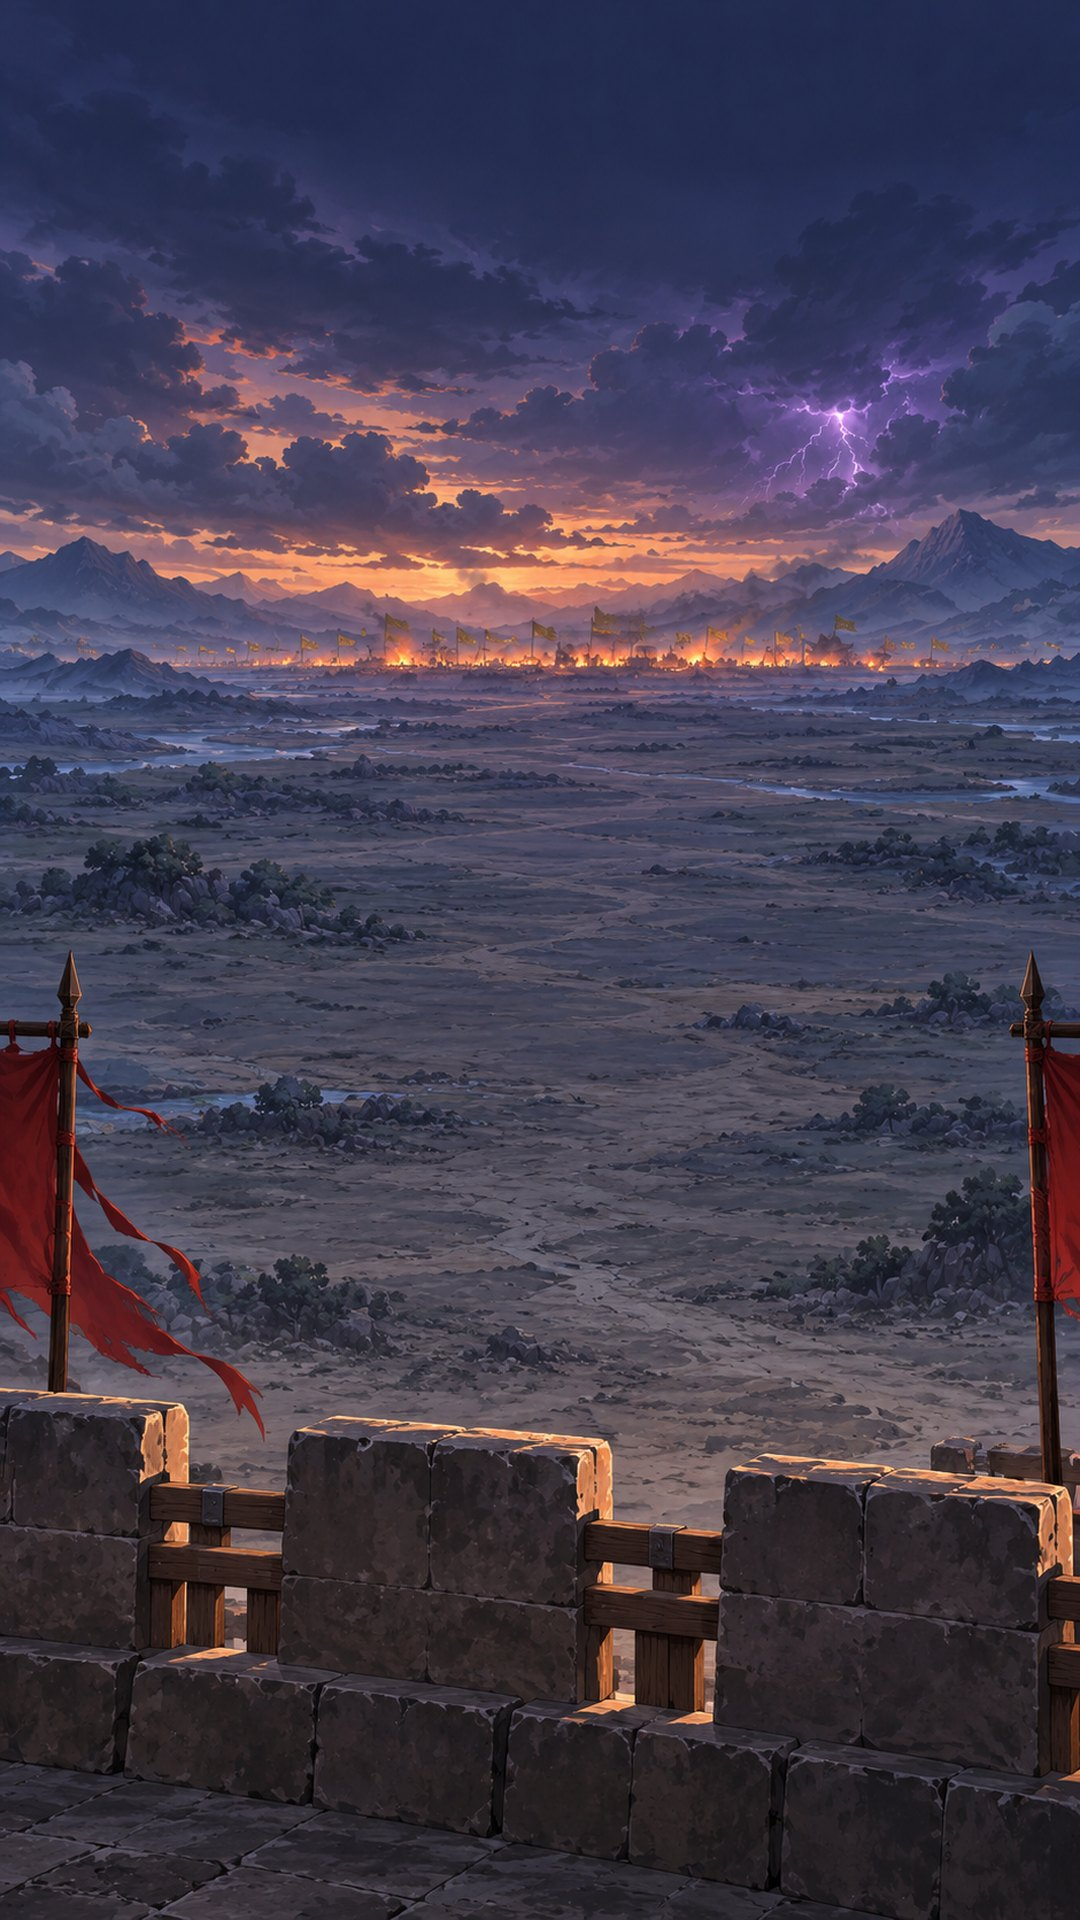
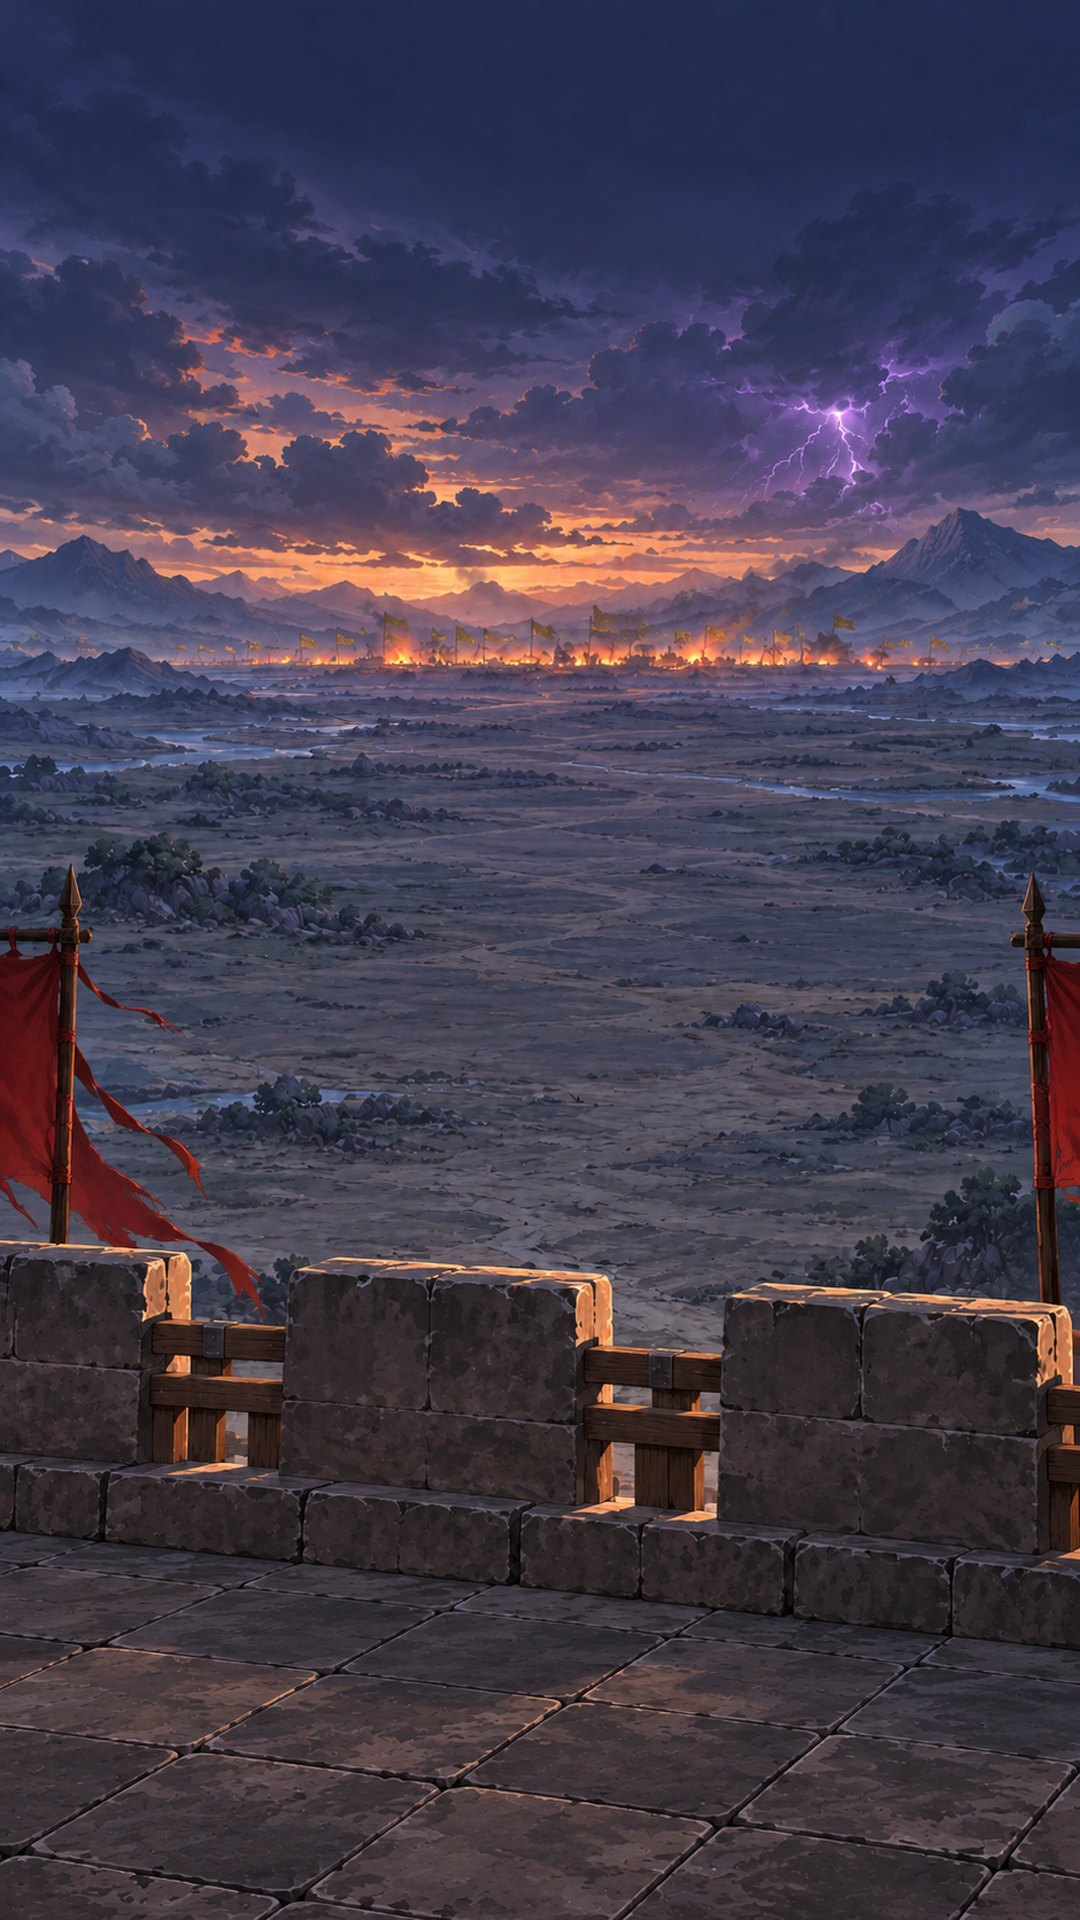
主页换新图：三兄弟站城头，关卡牌缩成一条挪到标题下

diff --git a/原型/守关.html b/原型/守关.html
@@ -6431,17 +6431,18 @@ const tipDone = k => { INV.tipSeen = INV.tipSeen || {}; INV.tipSeen[k] = 1; save
 function drawMenuTip(t) {
   const T = tipNow(); MENU.tip = T || null; if (!T || REWARD || (MENU.note && t - MENU.note.t0 < 3.2)) return;
   if (MENU.tipK !== T.k) { MENU.tipK = T.k; MENU.tipT = t; } const a = clamp((t - MENU.tipT - .4) / .3, 0, 1); if (a <= 0) return;
-  const [ck, C] = counselNow(), y = 364; drawCounselSay(ck, C, T.say, y, a); hit(6, y - 4, W - 12, 66, () => tipDone(T.k));
+  const [ck, C] = counselNow(), y = 194; drawCounselSay(ck, C, T.say, y, a);   // 11-02 三兄弟挪到城头后，提示放到关卡牌下面那片天上，不横在人身上 hit(6, y - 4, W - 12, 66, () => tipDone(T.k));
   const by = H - 98 + 5 * Math.sin(t * 6); ctx.save(); ctx.globalAlpha = a; ctx.fillStyle = '#ffd76e'; ctx.shadowColor = 'rgba(255,190,80,.8)'; ctx.shadowBlur = 8;   // 往下指着该点的钮，一上一下地跳
   ctx.beginPath(); ctx.moveTo(T.x - 9, by - 10); ctx.lineTo(T.x + 9, by - 10); ctx.lineTo(T.x, by); ctx.closePath(); ctx.fill(); ctx.restore();
 }
+const TRIO_H = 300, TRIO_FOOT = 542;                                            // 主页三兄弟：画多高、脚在哪（城头步道）
 function drawMenu() {
   const open1 = open1st();
   if (!BEST[1] && !MENU.autoGo && !window.__sg.all) { MENU.autoGo = true; openLevel(0); if (screen !== 'menu') return; }   // 11-02 用户：「新玩家直接开始第一关，不存在先看到界面」——第一关没过，开页就进（序章 → 第一关）；退军回来才看到主页，一次开页只自动进一次
   drawBg(); const t = uiNow();
   if (!INV.rankMig) { INV.rankMig = 1; for (let k = 1; k < RANKS.length; k++) if (BEST[RANKS[k].node]) INV.rank = Math.max(INV.rank || 0, k); syncRankArt(); saveInv(); }   // 旧档：打过的节点关补认官阶
   const vg = ctx.createLinearGradient(0, 0, 0, H); vg.addColorStop(0, 'rgba(10,6,4,.35)'); vg.addColorStop(.25, 'rgba(10,6,4,0)'); vg.addColorStop(.62, 'rgba(10,6,4,.05)'); vg.addColorStop(1, 'rgba(10,6,4,.8)'); ctx.fillStyle = vg; ctx.fillRect(0, 0, W, H);
-  if (ready(IMG.trio)) { const im = IMG.trio, wide = im.width > im.height, h = wide ? W * im.height / im.width : 318, w = h * im.width / im.height; ctx.drawImage(im, W / 2 - w / 2, wide ? 150 : 138, w, h); }   // 横图铺满一屏宽；10-27 换成 Codex 画的竖版三人（灰底抠图），按高度画、居中，脚落在关卡牌上面
+  if (ready(IMG.trio)) { const im = IMG.trio, wide = im.width > im.height, h = wide ? W * im.height / im.width : TRIO_H, w = h * im.width / im.height; ctx.drawImage(im, W / 2 - w / 2, wide ? 150 : TRIO_FOOT - TRIO_H, w, h); }   // 11-02 用户改了首页图（城头步道在下面）：「让他们站城墙上」——脚落在城头步道上   // 横图铺满一屏宽；10-27 换成 Codex 画的竖版三人（灰底抠图），按高度画、居中，脚落在关卡牌上面
   uiText('群雄逐鹿', W / 2, 96, 50, UIC.gold2, 'center', FONT, { glow: `rgba(255,190,80,${.5 + .2 * Math.sin(t * 2)})`, glowR: 20, lw: 7 });
   const nt = dailyTick(); if (nt) MENU.note = { ...nt, t0: t };
   if (CRASH && !CRASH.t0) CRASH.t0 = t;
@@ -6460,19 +6461,19 @@ function drawMenu() {
   if (canPromote()) { const pu = .6 + .4 * Math.sin(t * 6); uiSeal(176, 14, 16, '升', UIC.red, true); ctx.save(); ctx.globalAlpha = pu; uiText('可晋阶', 176, 32, 9, '#ffe39a', 'center', PLAIN, { lw: 2 }); ctx.restore(); }
   hit(8, 10, 176, 46, () => { screen = 'camp'; CAMP.t0 = uiNow(); });
   // 当前目标卡：下一关、门槛还差什么、出征
-  const ni = frontier(), lv = LEVELS[ni], duel = lv.kind === 'duel', cy0 = 440, cw = W - 20;
-  plate(10, cy0, cw, 84, true);
-  uiSeal(42, cy0 + 42, 38, CNUM(lv.id), duel ? '#8a1c10' : UIC.red);
-  uiText(`${SEGS[Math.floor(ni / 10)]} · ${levelTag(lv)}`, 70, cy0 + 20, 11, 'rgba(246,210,122,.85)', 'left', PLAIN, { stroke: false });
-  uiText(lv.name, 70, cy0 + 42, fitSize(lv.name, 22, cw - 70 - 96, 99, FONT, 3), UIC.cream, 'left', FONT, { lw: 3 });
-  uiText(fitText(lv.sub, 11, cw - 70 - 104), 70, cy0 + 66, 11, 'rgba(244,230,196,.7)', 'left', PLAIN, { stroke: false });   // 下面写这一关的一句话剧情
-  hit(10, cy0, cw - 96, 84, () => { if (!open1) { MENU.lockT = uiNow(); return; } screen = 'levels'; MENU.seg = Math.floor(ni / 10); });
-  { const bx = W - 108, by = cy0 + 20, bw = 90, bh = 44, br = .5 + .5 * Math.sin(t * 3);   // 出征：红漆钮（页签那张画的漆面），一呼一吸的金光
+  // 11-02 用户：「把这个弄小」——关卡牌缩成一条（84 → 52 高、两边收窄），挪到标题下面，不挡站在城头的三兄弟
+  const ni = frontier(), lv = LEVELS[ni], duel = lv.kind === 'duel', cy0 = 132, cx0 = 26, cw = W - 52, chh = 52;
+  plate(cx0, cy0, cw, chh, true);
+  uiSeal(cx0 + 26, cy0 + chh / 2, 30, CNUM(lv.id), duel ? '#8a1c10' : UIC.red);
+  uiText(`${SEGS[Math.floor(ni / 10)]} · ${levelTag(lv)}`, cx0 + 50, cy0 + 16, 10, 'rgba(246,210,122,.85)', 'left', PLAIN, { stroke: false });
+  uiText(lv.name, cx0 + 50, cy0 + 35, fitSize(lv.name, 18, cw - 50 - 84, 99, FONT, 3), UIC.cream, 'left', FONT, { lw: 3 });
+  hit(cx0, cy0, cw - 84, chh, () => { if (!open1) { MENU.lockT = uiNow(); return; } screen = 'levels'; MENU.seg = Math.floor(ni / 10); });
+  { const bw = 72, bh = 36, bx = cx0 + cw - bw - 8, by = cy0 + (chh - bh) / 2, br = .5 + .5 * Math.sin(t * 3);   // 出征：红漆钮（页签那张画的漆面），一呼一吸的金光
     ctx.save(); ctx.shadowColor = `rgba(255,190,90,${.45 + .3 * br})`; ctx.shadowBlur = 14; if (ready(IMG.ui2_tab_red)) draw9(IMG.ui2_tab_red, bx, by, bw, bh, 90, 90, 0, 0, bh / 189); else uiPanel(bx, by, bw, bh, { r: bh / 2, top: '#c0402a', bot: '#6e140c' }); ctx.restore();
     uiText('出征', bx + bw / 2, by + bh / 2 + 1, fitSize('出征', 22, bw - bh * .95), '#fff2dc', 'center', FONT, { lw: 4, glow: 'rgba(255,200,90,.5)', glowR: 8 }); hit(bx, by, bw, bh, () => openLevel(ni)); }
   // 点卯横幅
   if (MENU.note && t - MENU.note.t0 < 3.2) { const u = (t - MENU.note.t0) / 3.2, a = u < .1 ? u / .1 : u > .8 ? (1 - u) / .2 : 1, g = MENU.note.got;
-    const ny = cy0 - 92; ctx.save(); ctx.globalAlpha = a; if (ready(IMG.ui_banner)) draw9(IMG.ui_banner, 8, ny, W - 16, 80, 90, 90, 0, 0, 80 / 89);   // 挪到关卡牌上面，别挡住三兄弟的脸（10-26 试玩）
+    const ny = 330; ctx.save(); ctx.globalAlpha = a; if (ready(IMG.ui_banner)) draw9(IMG.ui_banner, 8, ny, W - 16, 80, 90, 90, 0, 0, 80 / 89);   // 挪到关卡牌上面，别挡住三兄弟的脸（10-26 试玩）
     uiText('点卯', W / 2, ny + 26, 20, '#f6d27a', 'center', FONT, { glow: 'rgba(255,190,80,.7)', glowR: 10 });
     // 10-30 用户：「精铁那些用图标」——物品写成图标 + 数，后面接补领和今日军务
     const tail = (MENU.note.packs > 1 ? `（补领 ${MENU.note.packs - 1} 天）` : '') + ' · 今日军务 ' + DAILY.taskN + ' 道', ents = Object.entries(g), is = 20, fz = 12;

diff --git a/设计/方案初稿.md b/设计/方案初稿.md
@@ -815,3 +815,4 @@
 - 11-02 「最后一波」横幅出来时战场停住（用户：「最后一波出现时游戏要暂停」「游戏暂停，字过去了，自动继续」）：nextWave 出最后一波时设 `G.waveHold`（1.6 秒，和横幅一样长），这期间 step 只走横幅、战场不动，演完自动接着打；只真人玩，机器人推演不停（bench 不变）。第一、二…波照旧不停。截图核对过第二关。手机没看。
 - 11-02 军师说话的头像下面只写名字，去掉「· 智 41」（用户：「不需要说智多少」）。
 - 11-02 战场「功」钮（用户：「去掉这2字，功画一个图吧？」）：钮下「军功」两字去掉；图标提示词写在 工具/画图/prompts_1102.md（虎符 + 红绸 + 小金星，不画圆框），游戏读 img/ui_btn_gong.png，有图就画图、没图照旧写「功」。图还没画。
+- 11-02 用户改了首页图（城垛往上收、下面露出一大块城头步道）：「你看可以让他们站城墙上不，把这个弄小」——重新缩成 原型/img/bg.jpg（原色同存）。三兄弟 318 → 300 高、脚落在城头步道（y 542，`TRIO_FOOT`），整个人站在城垛前面；关卡牌从三兄弟身前（440，84 高、满宽）缩成一条（52 高、两边各收 16）挪到标题下面（132），去掉一句话剧情，出征钮 90×44 → 72×36；军师提示挪到关卡牌下面那片天上（194），点卯横幅在 330。截图看过主页。手机没看。
